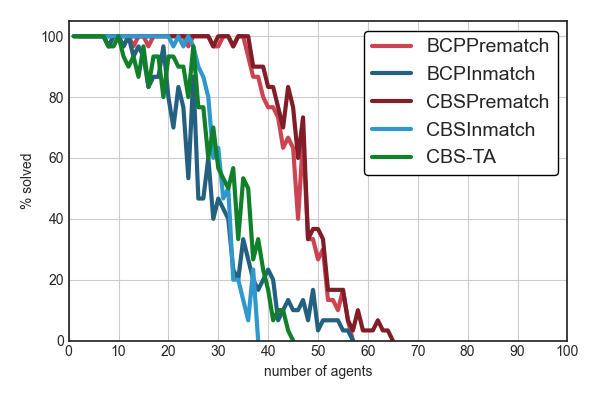
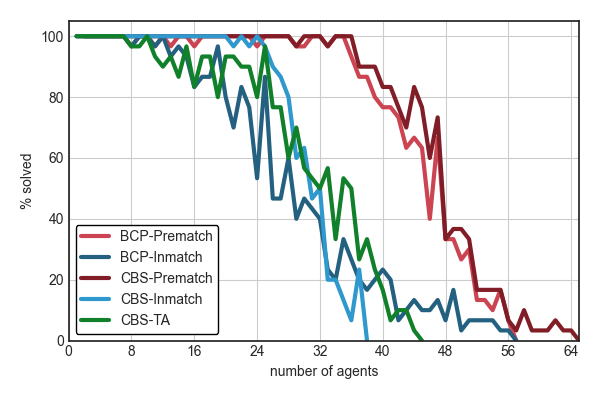
Setup for CBM

Changed region(s): [[0.12, 0.03, 0.99, 0.96]]

diff --git a/python/benchmarks/graph_times.py b/python/benchmarks/graph_times.py
@@ -1,19 +1,16 @@
 import matplotlib.pyplot as plt
 from matplotlib.ticker import MaxNLocator
-import numpy as np
 
 colors = [
-    (204, 68, 82),
-    (36, 97, 128),
-    (128, 29, 39),
-    (47, 152, 204),
-    (17, 128, 42),
-    (67, 204, 98),
-    (57, 204, 174),
-    (102, 82, 74),
-    (128, 124, 23),
-    (204, 111, 78),
+    "#648fff",
+    "#785ef0",
+    "#dc267f",
+    "#fe6100",
+    "#ffb000",
 ]
+
+linestyles = {"CBSPrematch": '--', "BCPPrematch": '-', "CBS-TA": (5, (10, 3)), "CBSInmatch": ":", "BCPInmatch": '-.'}
+labels = {"CBSPrematch": 'CBS-Outmatch', "BCPPrematch": 'BCP-Outmatch', "CBS-TA": 'CBS-TA', "CBSInmatch": 'CBS-Inmatch', "BCPInmatch": 'BCP-Inmatch'}
 background = (34, 39, 46)
 
 
@@ -49,8 +46,6 @@ def percentile(l: list[float], perc: float) -> float:
 
 def graph_results(*args, under,
                   save=True,
-                  bounds=True,
-                  fill_between=False,
                   graph_times=False,
                   graph_percentage=True,
                   legend=True,
@@ -114,21 +109,24 @@ def graph_results(*args, under,
                 times90pydata = []
 
             lines = f.readlines()
-            longest = int(lines[-1].split(":")[0])
+            first_non_solved = False
             for l in [l.strip() for l in lines if l.strip() != ""]:
                 before, after = l.split(":")
                 after_list = eval(after)
                 num_agents = int(before)
-                for i in after_list:
-                    if i is not None and i > 120:
-                        print(i)
                 if limit is not None:
                     after_list = [x if x is None or x <= limit else None for x in after_list]
                 fraction_solved = (len(after_list) - after_list.count(None)) / len(after_list)
-
                 solved_times = [i for i in after_list if i is not None]
 
+                if fraction_solved == 0 and num_agents > 10 and not first_non_solved:
+                    first_non_solved = True
+                    if num_agents > longest:
+                        longest = num_agents
+
                 if fraction_solved != 0:
+                    if num_agents == 100:
+                        longest = 100
                     if graph_percentage:
                         percentagexdata.append(num_agents)
                         percentageydata.append(fraction_solved * 100)
@@ -146,56 +144,20 @@ def graph_results(*args, under,
                 percentage.plot(
                     percentagexdata,
                     percentageydata,
-                    color=rgb_to_colour(*colors[plt_index]),
-                    label=label,
-                    linewidth=3,
+                    linestyle=linestyles[label],
+                    color=colors[plt_index],
+                    label=labels[label],
+                    linewidth=2
                 )
-
-                if fill_between:
-                    if not ppydata:
-                        percentage.fill_between(
-                            percentagexdata,
-                            0,
-                            percentageydata,
-                            color=rgb_to_colour(*lighten(*colors[plt_index], 0.2), transparency_fraction=50/100)
-                        )
-                    else:
-                        while len(ppydata) < len(percentageydata):
-                            ppydata.append(0)
-                        percentage.fill_between(
-                            percentagexdata,
-                            ppydata,
-                            percentageydata,
-                            color=rgb_to_colour(*lighten(*colors[plt_index], 0.2), transparency_fraction=50 / 100)
-                        )
-
-                    ppydata = percentageydata
-
-            if graph_times:
-                times.plot(
-                    timesxdata,
-                    times50pydata,
-                    color=rgb_to_colour(*colors[plt_index]),
-                    label=label,
-                    linewidth=3,
-                )
-
-                if bounds:
-                    times.fill_between(
-                        timesxdata,
-                        times10pydata,
-                        times90pydata,
-                        color=rgb_to_colour(*lighten(*colors[plt_index], 0.2), transparency_fraction=50/100)
-                    )
-
     if graph_percentage:
         percentage.set_xlim(0, longest)
     else:
         times.set_xlim(0, longest + 1)
 
     if legend:
-        plt.legend(facecolor='white', framealpha=1, frameon=True, edgecolor="black")
+        plt.legend(facecolor='white', framealpha=1, frameon=True, edgecolor="black", prop={'size': 10})
     plt.show()
     if save:
+        print(save_location)
         # fig.savefig(f"{save_location}.eps", bbox_inches="tight", pad_inches=0, format='eps')
         fig.savefig(f"{save_location}.png", pad_inches=0, format='png')

diff --git a/python/benchmarks/main.py b/python/benchmarks/main.py
@@ -16,7 +16,7 @@ from python.benchmarks.run_with_timeout import run_with_timeout
 from python.benchmarks.util import output_data, read_from_file
 
 this_dir = pathlib.Path(__file__).parent.absolute()
-name = "main"
+name = "warehouse"
 
 
 def generate_maps():
@@ -56,9 +56,9 @@ def run(solver: Callable[[], MapfAlgorithm], bm_name: str, parse_maps: bool = Tr
 
     fname = batchdir / f"results_{bm_name}.txt"
 
-    # if fname.exists():
-    #     print(f"data exists for {bm_name}")
-    #     return fname, bm_name
+    if fname.exists():
+        print(f"data exists for {bm_name}")
+        return fname, bm_name
 
     # num agents : solutions
     results: dict[int, list[Optional[int]]] = {}
@@ -75,10 +75,10 @@ def run(solver: Callable[[], MapfAlgorithm], bm_name: str, parse_maps: bool = Tr
         num_agents = len(problems[0][1].goals)
 
         partname = pathlib.Path(str(fname) + f".{num_agents}agents")
-        # if partname.exists():
-        #     print(f"found data for part {num_agents}")
-        #     results[num_agents] = read_from_file(partname, num_agents)
-        #     continue
+        if partname.exists():
+            print(f"found data for part {num_agents}")
+            results[num_agents] = read_from_file(partname, num_agents)
+            continue
         all_results = run_with_timeout(solver(), problems, parse_maps, 10)  # test with low timeout
         sols_inmatch, _ = zip(*all_results)
         tqdm.write(f"{bm_name} with {num_agents} agents: {sols_inmatch}")
@@ -100,45 +100,44 @@ def main():
 
     files: list[tuple[pathlib.Path, str]] = []
 
-    # files.append(run(
-    #     lambda: BCPPrematch(),
-    #     "BCPPrematch"
-    # ))
-
-    # files.append(run(
-    #     lambda: BCPInmatch(),
-    #     "BCPInmatch"
-    # ))
-
-    # files.append(run(
-    #     lambda: CBSPrematch(),
-    #     "CBSPrematch"
-    # ))
-
-    #files.append(run(
-    #    lambda: CBSInmatch(),
-    #    "CBSInmatch"
-    #))
-
     files.append(run(
-        lambda: CBM(),
-        "CBM"
+        lambda: BCPPrematch(),
+        "BCPPrematch"
     ))
 
+    files.append(run(
+        lambda: BCPInmatch(),
+        "BCPInmatch"
+    ))
+
+    files.append(run(
+        lambda: CBSPrematch(),
+        "CBSPrematch"
+    ))
+
+    files.append(run(
+       lambda: CBSInmatch(),
+       "CBSInmatch"
+    ))
+
+    # files.append(run(
+    #     lambda: CBM(),
+    #     "CBM"
+    # ))
+    #
     files.append(run(
         lambda: CBSTA(),
-        "CBSTA"
+        "CBS-TA"
     ))
 
-    # graph_results(
-    #     *files,
-    #     batchdir / f"{name}",
-    #     under="number of agents",
-    #     save=True,
-    #     bounds=False,
-    #     legend=True,
-    #     limit=100,
-    # )
+    graph_results(
+        *files,
+        batchdir / f"{name}",
+        under="number of agents",
+        save=True,
+        legend=True,
+        limit=100,
+    )
 
 
 if __name__ == '__main__':

diff --git a/python/benchmarks/comparison_25percent_12teams.py b/python/benchmarks/comparison_25percent_12teams.py
@@ -6,7 +6,7 @@ from mapf_branch_and_bound.bbsolver import compute_sol_cost
 from tqdm import tqdm
 
 from python.algorithm import MapfAlgorithm
-from python.benchmarks.comparison import BCPInmatch, BCPPrematch, CBSPrematch, CBSInmatch, CBSTA # , EPEAStar, CBM, AStarODID,
+from python.benchmarks.comparison import BCPInmatch, BCPPrematch, CBSPrematch, CBSInmatch, CBSTA, CBM # , EPEAStar, CBM, AStarODID,
 from python.benchmarks.graph_times import graph_results
 from python.benchmarks.map import MapGenerator
 from python.benchmarks.parse_map import MapParser
@@ -165,12 +165,16 @@ def main():
         "CBS-TA"
     ))
 
+    files.append(run(
+        lambda: CBM(),
+        "CBM"
+    ))
+
     graph_results(
         *files,
-        batchdir / f"{name}",
+        f"{name}",
         under="number of agents",
         save=True,
-        bounds=False,
         legend=True,
     )
 

diff --git a/python/benchmarks/comparison_25percent_1teams.py b/python/benchmarks/comparison_25percent_1teams.py
@@ -6,7 +6,7 @@ from mapf_branch_and_bound.bbsolver import compute_sol_cost
 from tqdm import tqdm
 
 from python.algorithm import MapfAlgorithm
-from python.benchmarks.comparison import BCPInmatch, BCPPrematch, CBSPrematch, CBSInmatch, CBSTA # , EPEAStar, CBM, AStarODID,
+from python.benchmarks.comparison import BCPInmatch, BCPPrematch, CBSPrematch, CBSInmatch, CBSTA, CBM # , EPEAStar, CBM, AStarODID,
 from python.benchmarks.graph_times import graph_results
 from python.benchmarks.map import MapGenerator
 from python.benchmarks.parse_map import MapParser
@@ -165,12 +165,16 @@ def main():
         "CBS-TA"
     ))
 
+    files.append(run(
+        lambda: CBM(),
+        "CBM"
+    ))
+
     graph_results(
         *files,
-        batchdir / f"{name}",
+        f"{name}",
         under="number of agents",
         save=True,
-        bounds=False,
         legend=True,
     )
 

diff --git a/python/benchmarks/comparison_25percent_3teams.py b/python/benchmarks/comparison_25percent_3teams.py
@@ -7,7 +7,7 @@ from mapf_branch_and_bound.bbsolver import compute_sol_cost
 from tqdm import tqdm
 
 from python.algorithm import MapfAlgorithm
-from python.benchmarks.comparison import BCPInmatch, BCPPrematch, CBSPrematch, CBSInmatch, CBSTA # , EPEAStar, CBM, AStarODID,
+from python.benchmarks.comparison import BCPInmatch, BCPPrematch, CBSPrematch, CBSInmatch, CBSTA, CBM # , EPEAStar, CBM, AStarODID,
 from python.benchmarks.graph_times import graph_results
 from python.benchmarks.map import MapGenerator
 from python.benchmarks.parse_map import MapParser
@@ -174,12 +174,16 @@ def main():
         "CBS-TA"
     ))
 
+    files.append(run(
+        lambda: CBM(),
+        "CBM"
+    ))
+
     graph_results(
         *files,
-        batchdir / f"{name}",
+        f"{name}",
         under="number of agents",
         save=True,
-        bounds=False,
         legend=True,
     )
 

diff --git a/python/benchmarks/comparison_25percent_6teams.py b/python/benchmarks/comparison_25percent_6teams.py
@@ -6,7 +6,7 @@ from mapf_branch_and_bound.bbsolver import compute_sol_cost
 from tqdm import tqdm
 
 from python.algorithm import MapfAlgorithm
-from python.benchmarks.comparison import BCPInmatch, BCPPrematch, CBSPrematch, CBSInmatch, CBSTA # , EPEAStar, CBM, AStarODID,
+from python.benchmarks.comparison import BCPInmatch, BCPPrematch, CBSPrematch, CBSInmatch, CBSTA, CBM # , EPEAStar, CBM, AStarODID,
 from python.benchmarks.graph_times import graph_results
 from python.benchmarks.map import MapGenerator
 from python.benchmarks.parse_map import MapParser
@@ -165,12 +165,16 @@ def main():
         "CBS-TA"
     ))
 
+    files.append(run(
+        lambda: CBM(),
+        "CBM"
+    ))
+
     graph_results(
         *files,
-        batchdir / f"{name}",
+        f"{name}",
         under="number of agents",
         save=True,
-        bounds=False,
         legend=True,
     )
 

diff --git a/python/benchmarks/comparison_warehouse.py b/python/benchmarks/comparison_warehouse.py
@@ -6,7 +6,7 @@ from mapf_branch_and_bound.bbsolver import compute_sol_cost
 from tqdm import tqdm
 
 from python.algorithm import MapfAlgorithm
-from python.benchmarks.comparison import BCPInmatch, BCPPrematch, CBSPrematch, CBSInmatch, CBSTA # , EPEAStar, CBM, AStarODID,
+from python.benchmarks.comparison import BCPInmatch, BCPPrematch, CBSPrematch, CBSInmatch, CBSTA, CBM # , EPEAStar, CBM, AStarODID,
 from python.benchmarks.graph_times import graph_results
 from python.benchmarks.map import MapGenerator
 from python.benchmarks.parse_map import MapParser
@@ -166,12 +166,16 @@ def main():
         "CBS-TA"
     ))
 
+    files.append(run(
+        lambda: CBM(),
+        "CBM"
+    ))
+
     graph_results(
         *files,
-        batchdir / f"{name}",
+        f"{name}",
         under="number of agents",
         save=True,
-        bounds=False,
         legend=True,
     )
 
